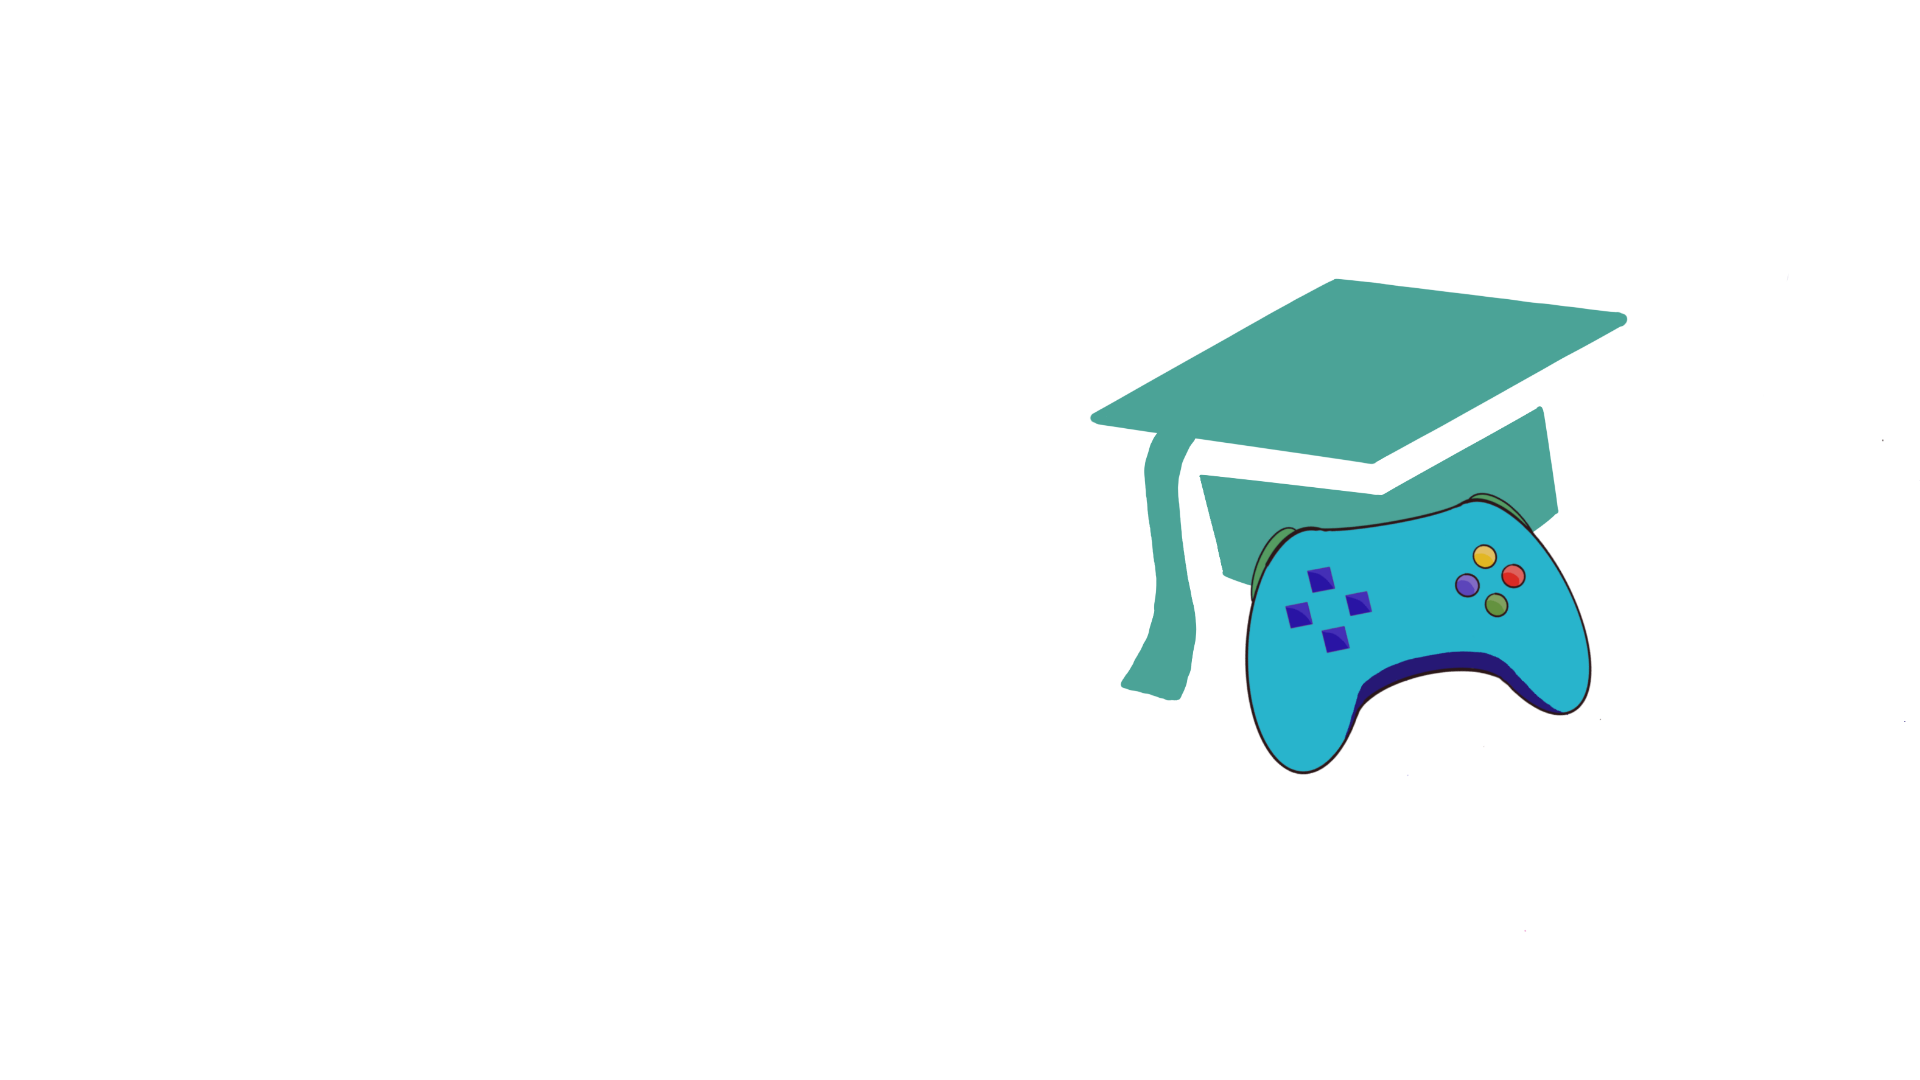
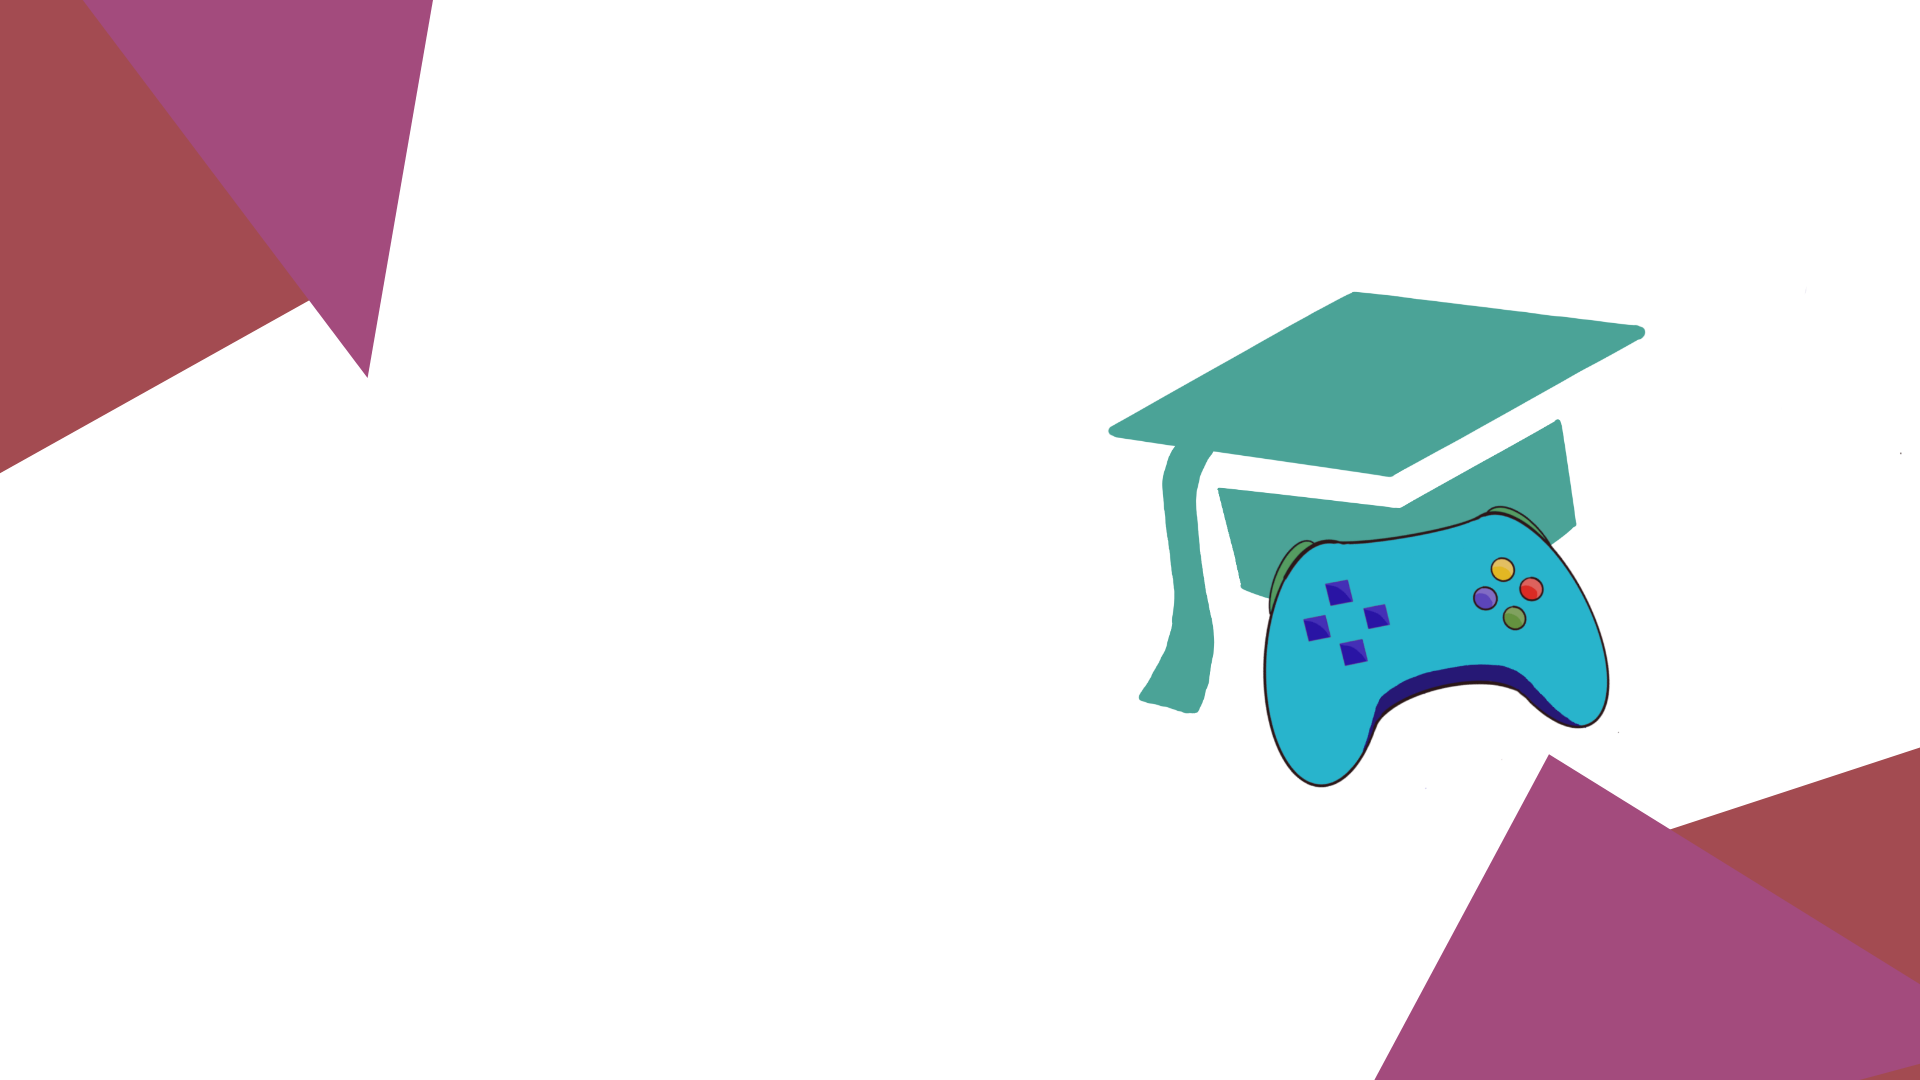
Login page styling

diff --git a/static/index.css b/static/index.css
@@ -19,25 +19,7 @@ body {
 
 
 
-.register-button {
-  background-color:#4ba397;
-  color:white;
-  border:none;
-}
-
-.about-button {
-  background-color:white;
-  color:#a34b51;
-  border:1px solid #a34b51;
-}
-
-.register-button, .about-button {
-  border-radius:5px;
-  margin-right:20px;
-  padding:10px;
-  font-family:'Space Grotesk';
-}
-
+/* register page */
 .register-container {
   background-image:url('./register.png');
   background-color: #a3c6ea;
@@ -55,7 +37,7 @@ body {
   margin-right:100px;
 
 }
-.register-form {
+.register-form, .login-form {
   border:none;
   padding:20px;
   margin-right:20px;
@@ -65,7 +47,7 @@ body {
   font-size:20px;
 }
 
-.register-form input {
+.register-form input, .login-form input {
   background-color:rgb(235, 235, 235);
   border:none;
   color:black;
@@ -74,8 +56,7 @@ body {
 
 }
 
-.register-form-button {
-  background-color:#4ba397;
+.register-form-button, .login-form-button {
   border-radius:5px;
   color:white;
   font-family:'Space Grotesk';
@@ -83,12 +64,20 @@ body {
   padding:10px;
 }
 
+.register-form-button {
+  background-color:#4ba397;
+}
+
+.login-form-button {
+  background-color:#a34b51;
+}
+
 .form-title {
   font-family:'Share Tech Mono';
   font-size:80px;
 }
 
-.register-subtitle {
+.register-subtitle, .login-subtitle {
   font-size:15px;
   font-family:'Space Grotesk';
   margin-bottom:20px;
@@ -98,7 +87,6 @@ body {
 
 .home-container {
   background-image:url('./home.png');
-  background-color: #a3c6ea;
   background-position: left;
   background-repeat: no-repeat;
   background-size: cover;
@@ -119,3 +107,48 @@ body {
   font-size:30px;
   margin-bottom:15px;
 }
+
+/*buttons */
+.register-button:hover {
+  background-color:#4ba397;
+  color:white;
+  border:none;
+}
+
+.register-button {
+  background-color:white;
+  border: 1px solid #4ba397;
+  color:#4ba397;
+}
+
+.about-button {
+  background-color:white;
+  color:#a34b51;
+  border:1px solid #a34b51;
+}
+
+.about-button:hover {
+  background-color:#a34b51;
+  color:white;
+}
+
+.register-button, .about-button {
+  border-radius:5px;
+  margin-right:20px;
+  padding:10px;
+  font-family:'Space Grotesk';
+}
+
+/* LOGIN*/
+.login-container {
+  background-image:url('./login.png');
+  background-position: left;
+  background-repeat: no-repeat;
+  background-size: cover;
+  min-height: 100vh;
+  margin: 0 auto;
+  display: flex;
+  flex-direction: column;
+  justify-content: center;
+}
+

diff --git a/src/frontend/pages/loginPage.tsx b/src/frontend/pages/loginPage.tsx
@@ -2,11 +2,41 @@ import React, { useState } from 'react';
 import { Button, Form, Container, Row, Col } from 'react-bootstrap';
 
 export default function Login () {
+  const [username, setUsername] = useState('');
  
+  const handleSubmit = () => {
+    //check with database 
+  }
+
   return (
     <>
-      <Container fluid>
-        <h1>Login</h1>
+      <Container fluid className="login-container">
+        <Row>
+        <Col md={6}>
+            <div className="login-form-div">
+            <Form onSubmit={handleSubmit} className="login-form">
+            <h3 className="form-title">SIGN IN</h3>
+            <h6 className="login-subtitle">Already registered? Log in to start playing!</h6>
+
+            <Form.Group className="mb-3">
+              <Form.Control
+                name="name"
+                type="text"
+                placeholder="username"
+                onChange={(e) => setUsername(e.target.value)}
+              />          
+              </Form.Group>
+            <div className="login-bottom">
+            <button className="login-form-button" type="submit">
+              Login!
+            </button>
+            </div>
+          </Form>
+        </div>
+
+        </Col>
+        <Col md={6}></Col>
+        </Row>
       </Container>
     </>
   );

diff --git a/src/frontend/components/navbar.tsx b/src/frontend/components/navbar.tsx
@@ -4,11 +4,21 @@ import { Link, useHistory } from 'react-router-dom';
 
 
 export default function NavbarComp() {
-  //const [userName, setUserName] = useState('');
+  const [username, setUsername] = useState('');
 //
   let userName = sessionStorage.getItem('username');
   console.log(userName);
   const history = useHistory();
+
+  //window.addEventListener('storage',(e) => {
+  //  console.log('change');
+  //  let user = sessionStorage.getItem('username');
+  //  if (user) {
+  //    setUsername(user);
+  //  } else {
+  //    setUsername('');
+  //  }
+  //})
 
   //Track changes to session storage to re render 
 
@@ -27,12 +37,12 @@ export default function NavbarComp() {
         <Navbar.Collapse id="basic-navbar-nav">
           <Nav className="mr-auto container-fluid">
             <Nav.Link as={Link} to="/home" className="nav-item">Home</Nav.Link>
-            {!userName && (
+            {username === '' && (
               <>
               <Nav.Link as={Link} to="/login" className="nav-item">Login</Nav.Link>
               </>
             )}
-            {userName && (
+            {username !== '' && (
               <>
               <Button variant="dark" size="sm" name="logOut" className="logout" onClick={handleLogout}> Logout</Button>
             </>
